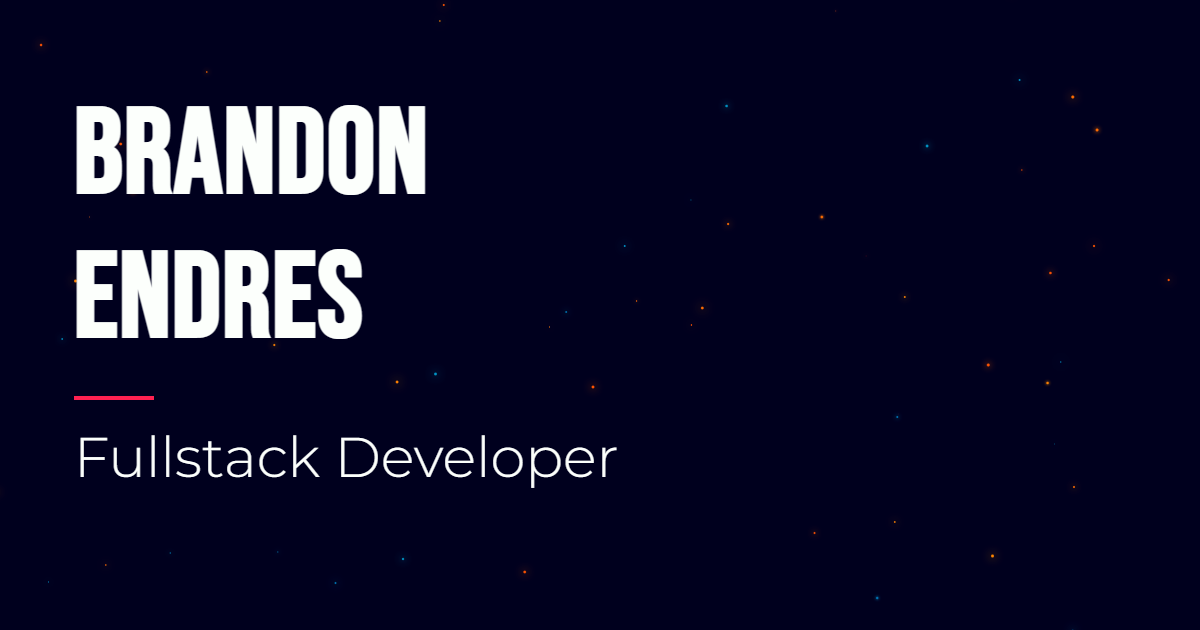
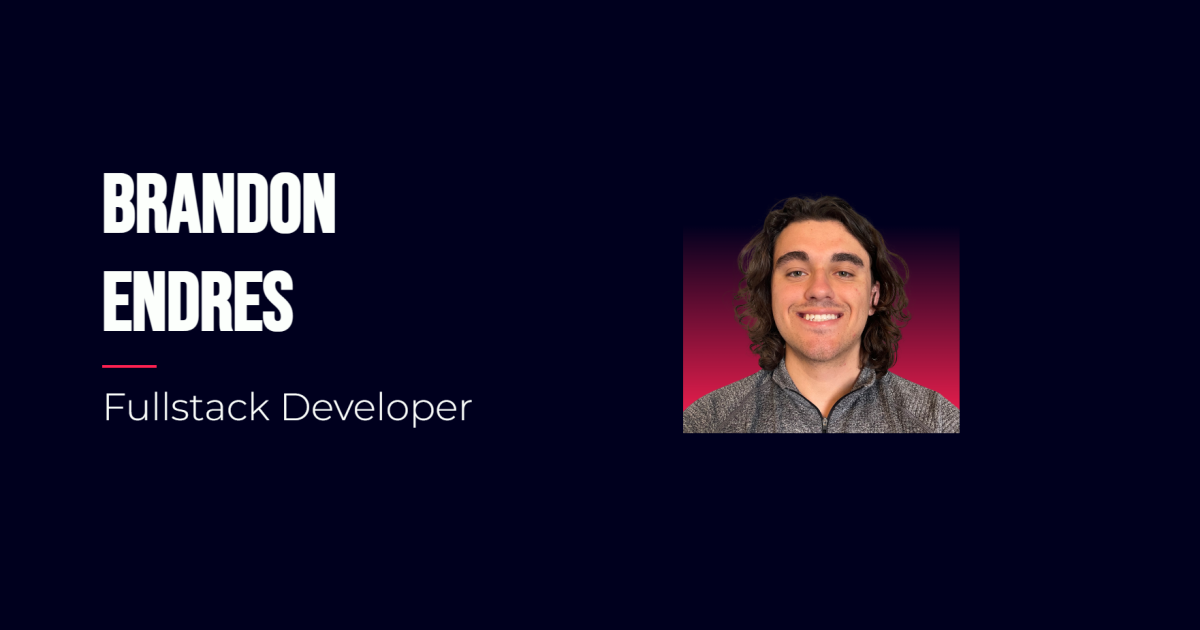
Adds image, updates css

Changed region(s): [[0.0617, 0.1508, 0.37, 0.5429], [0.555, 0.3016, 0.8017, 0.6937], [0.0617, 0.573, 0.5242, 0.7841]]

diff --git a/public/index.html b/public/index.html
@@ -24,7 +24,7 @@
 <body>
     <div id="logo">
         <a href="#landing">
-            <img src="../static/logo.png" alt="Brandon Endres" />
+            <img src="../static/logo_128x128.png" alt="Brandon Endres" />
         </a>
     </div>
     <!-- Menu Navigation -->
@@ -63,6 +63,9 @@
                 <div class="border"></div>
                 <h2>Fullstack Developer</h2>
             </div>
+            <div class="photo-content">
+                <img src="../static/brandon_endres.webp" alt="Brandon Endres">
+            </div>
         </section>
         <section id="about-id">
             <div class="content">
@@ -70,15 +73,12 @@
                 <div class="border"></div>
                 <p>
                     Hi there! My name is Brandon. I'm currently a developer at FIS, a fintech company. 
-                    I previously interned at Scotts Miracle Gro as a cloud applications developer, and graduated from Florida Polytechnic University.
+                    I previously interned at Scotts Miracle-Gro as a cloud applications developer and graduated from Florida Polytechnic University.
                 </p>
                 <p>
-                    In my spare time I love playing video games with my brother and friends, and expanding my knowledge in programming. 
-                    I also love to build LEGO sets, and watch my favorite sports teams when there are playing.
+                    In my spare time, I love playing video games with my brother and friends and expanding my knowledge in programming. 
+                    I also love to build LEGO sets and watch my favorite sports teams when they are playing.
                 </p>
-            </div>
-            <div class="additional-content">
-                
             </div>
         </section>
         <section id="skills-id">
@@ -103,21 +103,15 @@
                 </p>
                 <a class="external-link" href="https://github.com/Bendr-Dev" rel="noopener" target="_blank">View some of my projects on GitHub here!</a>
             </div>
-            <div class="additional-content">
-                
-            </div>
         </section>
         <section id="contact-id">
             <div class="content">
                 <h1>Contact</h1>
                 <div class="border"></div>
-                <p>Need a website? Have a project idea? Just want to connect?</p>
+                <p>Looking to hire? Need a website? Have a project idea? Just want to connect?</p>
                 <p>Here are some ways to get in touch with me:</p>
                 <a class="external-link" href="mailto:17bendres@gmail.com" rel="noopener" target="_blank">Email</a>
                 <a class="external-link" href="https://www.linkedin.com/in/brandon-endres/" rel="noopener" target="_blank">LinkedIn Profile</a>
-            </div>
-            <div class="additional-content">
-                
             </div>
         </section>
     </main>

diff --git a/public/global.css b/public/global.css
@@ -90,6 +90,7 @@ span {
   flex-direction: column;
   align-items: center;
   transition: all 500ms;
+  z-index: 2;
 }
 
 #scroll-notification span {
@@ -302,7 +303,7 @@ section {
   z-index: 1;
   display: flex;
   flex-direction: column;
-  min-height: calc(100% - var(--nav-width) * 2);
+  min-height: calc(100% - var(--nav-height) * 2);
   justify-content: center;
   padding: var(--nav-width) 3rem;
 }
@@ -314,27 +315,45 @@ section {
   height: 100%;
 }
 
+/* Landing Page */
 #landing-id .content {
   position: relative;
   justify-content: center;
+  min-height: 60%;
 }
 
-#canvas {
-  position: absolute;
+#landing-id .photo-content {
+  margin-top: 1.5rem;
+  display: flex;
+  align-items: center;
+  justify-content: center;
+  min-height: 40%;
 }
 
+.photo-content img {
+  background-image: linear-gradient(
+    360deg,
+    var(--accent-color) 0%,
+    var(--background-color) 75%
+  );
+  max-width: 100%;
+  height: auto;
+}
+
+/* Section Border */
 .border {
   height: 0.25rem;
   width: 5rem;
   background-color: var(--accent-color);
 }
 
+/* Links */
 .external-link {
   color: var(--accent-color);
   margin: 1.5rem 0;
   font-family: "Bebas Neue", sans-serif;
   font-size: 1.25rem;
-  font-size: clamp(1.25rem, 1.2rem + 0.25vw, 1.5rem);
+  font-size: clamp(1.25rem, 1.15rem + 0.5vw, 1.75rem);
   line-height: 1.2;
 }
 
@@ -391,8 +410,8 @@ section {
   }
 
   #menu-list {
-    height: calc(100% - var(--nav-height) * 2);
-    padding: var(--nav-height);
+    height: calc(100% - var(--nav-width) * 2);
+    padding: var(--nav-width);
   }
 
   /* Content */
@@ -409,14 +428,18 @@ section {
   section {
     padding: calc(var(--nav-width) * 2) calc(var(--nav-width) * 4);
     width: calc(100vw - var(--nav-width) * 8);
-    min-height: calc(100vh - var(--nav-height) * 4);
+    min-height: calc(100vh - var(--nav-width) * 4);
     flex-direction: row;
+    justify-content: flex-start;
+  }
+
+  #landing-id .photo-content {
+    margin-top: 0;
   }
 
   .content,
-  .additional-content {
+  .photo-content {
     min-width: 50%;
-    justify-content: center;
-    margin-top: 0;
+    max-width: 50%;
   }
 }
